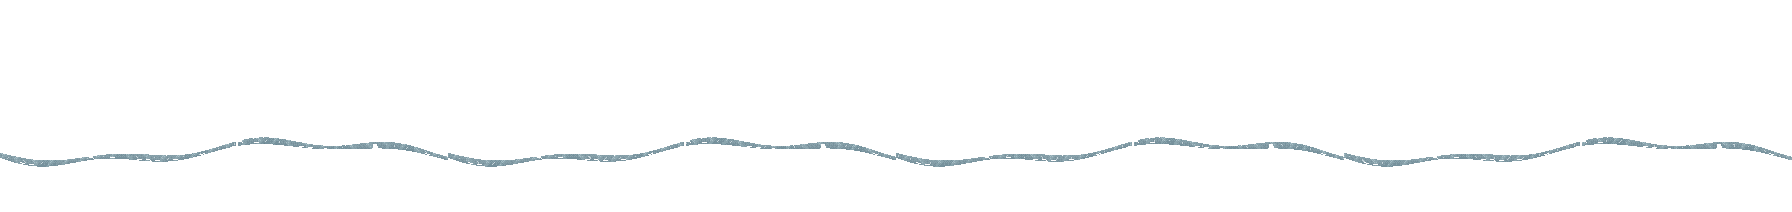
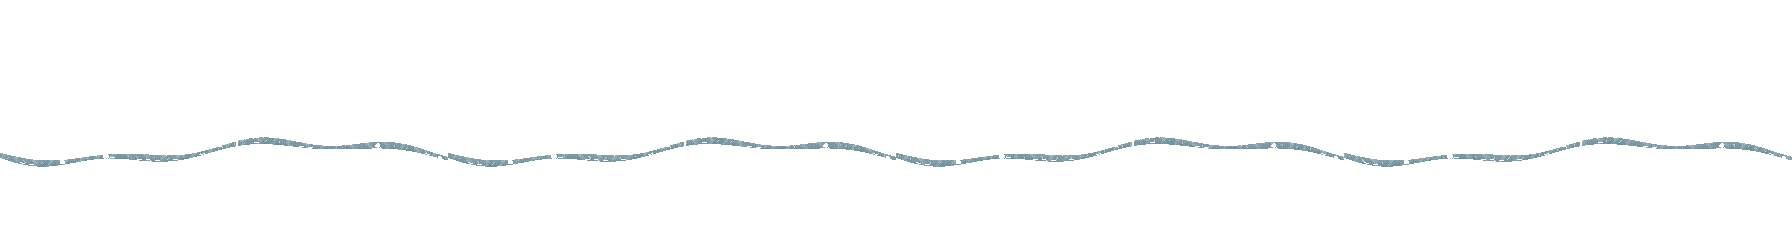
Åsen: rundt nes, hylle som smalnar av til éi flis, kamera berre ytst
Graset over overhenget heng i ein rund boge, og berget under er lågt og
rundt. Hylla held fram under høgre del og smalnar av til éi gangbar flis
ytst (16,19), med opne sidekantar mot dalen (Pikslar.sidekant). Kameraet
glir ned berre på utløysarrutene på neset og ytst på hylla (kameraNed.ruter).

Changed region(s): [[0.0, 0.6509, 1.0, 0.7925], [0.0, 0.566, 1.0, 0.6792]]

diff --git a/js/rpg/pikslar.js b/js/rpg/pikslar.js
@@ -1066,6 +1066,29 @@ window.Pikslar = (function () {
     c.ope = ope;
     return c;
   }
+  /* Bakke med luft ved sida (spissen av hylla som stikk ut over dalen): kanten mot lufta er ujamn,
+     det nedste hjørnet er rundt, og langs kanten syner ei smal stripe jord under graset. Utanfor er
+     flisa open (.ope), og dalen syner. base er flisa slik ho elles ville vore. */
+  function sidekant(base, felt, tx, ty) {
+    const c = lerret(S), g = c.getContext("2d"); g.drawImage(base, 0, 0);
+    const bilde = g.getImageData(0, 0, S, S), p = new Uint32Array(bilde.data.buffer), ope = new Uint8Array(S * S);
+    const GR = R_.gras.map(pk), lag = pk(JORDKANT.lag), mork = pk(JORDKANT.mork);
+    const vL = tx > 0 && felt.c(tx - 1, ty) === "-", hL = tx < felt.w - 1 && felt.c(tx + 1, ty) === "-";
+    for (let y = 0; y < S; y++) for (let x = 0; x < S; x++) {
+      const i = y * S + x;
+      for (const [luft, d] of [[vL, x], [hL, S - 1 - x]]) {
+        if (!luft) continue;
+        let kutt = 1 + Math.floor(vstoy(ty * S + y, tx * 3 + (d === x ? 0 : 1), 555) * 3);   // ujamn kant, 1 til 3 pikslar
+        if (y > 6) kutt = Math.max(kutt, Math.round(9 - Math.sqrt(Math.max(0, 81 - (y - 6) * (y - 6)))));   // rundt nedste hjørne
+        if (d < kutt) { p[i] = 0; ope[i] = 1; }
+        else if (d === kutt) p[i] = mork;
+        else if (d === kutt + 1) p[i] = hash(tx * S + x, ty * S + y, 556) > 0.5 ? lag : GR[0];
+      }
+    }
+    g.putImageData(bilde, 0, 0);
+    c.ope = ope;
+    return c;
+  }
   // Øvste rada i stupet som ruta (tx, ty) ligg i, eller null om ruta ikkje er stup («M» eller
   // overheng «U»). Byrjar stupet med eit overheng, ligg toppen rada over (bakken som stikk ut): då
   // held berget bak fram i same høgd som berget ved sida.
@@ -1134,7 +1157,8 @@ window.Pikslar = (function () {
     for (let x = 0; x < S; x++) {
       const X = tx * S + x;
       const r = Math.min(1, Math.abs(X + 0.5 - midt) / halv);             // 0 i spissen, 1 ved endane
-      const tunge = Math.round(2 + Math.pow(1 - r, 1.6) * 10 + (vstoy(X / 4, t0, 548) - 0.5) * 2);
+      // Graset heng over kanten i ein rund boge (buktar seg ut), lengst midt på.
+      const tunge = Math.round(2 + Math.sqrt(Math.max(0, 1 - r * r)) * 7 + (vstoy(X / 4, t0, 548) - 0.5) * 2);
       let lepp = 2 + Math.floor(vstoy(X / 9, t0 * 5, 521) * 4.99) + Math.floor(vstoy(X / 3, t0 * 5 + 2, 535) * 2.5);
       if (bakkeV) lepp = Math.max(lepp, boge(x + 0.5, 10, 14));
       if (bakkeH) lepp = Math.max(lepp, boge(S - x - 0.5, 10, 14));
@@ -1148,7 +1172,8 @@ window.Pikslar = (function () {
       const botn = nedst && felt.stupFast ? H - (2 + Math.floor(vstoy(X / 6, t0 * 5 + 3, 541) * 5) + Math.floor(hash(X >> 1, t0, 542) * 3)) : H + 99;
       // Overhenget: tynn kant av torv og berg, ujamn underside.
       const kant = virt ? tunge + 4 : 4 + Math.floor(vstoy(X / 5, t0 * 7, 543) * 4) + (hash(X, t0, 544) > 0.8 ? 1 : 0);
-      const veggBotn = virt ? Math.min(botn, S + kant + Math.round(Math.pow(r, 1.4) * (H - S - kant)) + Math.round((vstoy(X / 5, t0, 549) - 0.5) * 4)) : H + 99;
+      // Berget under er lite: det veks berre mot endane, og i ein rund boge (ikkje store blokker).
+      const veggBotn = virt ? Math.min(botn, S + kant + Math.round(Math.pow(r, 2.2) * (H - S - kant) * 0.7) + Math.round((vstoy(X / 5, t0, 549) - 0.5) * 4)) : H + 99;
       const bakV = kantV ? boge(x + 0.5, 8, 18) : 0, bakH = kantH ? boge(S - x - 0.5, 8, 18) : 0;
       for (let y = 0; y < S; y++) {
         const i = y * S + x, Yr = idx * S + y;
@@ -1753,6 +1778,6 @@ window.Pikslar = (function () {
     return c;
   }
 
-  return { S, FW, FH, flis, topp, kant, skigard, SKIGARD_LOFT, stiHjorne, sti, skrent, underSkrent, rampe, stup, nordkant, klasse, bygg, natur, haugBilete, KANTTYPE, kantflis, kantfigurar, vatn, steingard, FAST, figur, fiende, vesenGang, lerret, ramp, blend, RAMP,
+  return { S, FW, FH, flis, topp, kant, skigard, SKIGARD_LOFT, stiHjorne, sti, skrent, underSkrent, rampe, stup, nordkant, sidekant, klasse, bygg, natur, haugBilete, KANTTYPE, kantflis, kantfigurar, vatn, steingard, FAST, figur, fiende, vesenGang, lerret, ramp, blend, RAMP,
     hent, klar, forhandslast, alleBilete, ILD, SETE, ild, ildMaske, STANDARDKJENSLER, ARKPOSAR, ROYK, royk };
 })();

diff --git a/js/rpg/motor.js b/js/rpg/motor.js
@@ -547,7 +547,9 @@ window.Motor = (function () {
       oppPx += Math.sign(maalO - oppPx) * Math.min(Math.abs(maalO - oppPx), ko.fart * Math.min(n, 8));
     } else oppPx = 0;
     if (!k) { nedPx = 0; return; }
-    const ved = k.kant ? ("MU".includes((kart.fliser[Math.round(malY) + 1] || [])[Math.round(malX)] || "x") && Math.abs(malY - Math.round(malY)) < 0.01) : malY >= k.fra - 0.001;
+    // ruter: ["x,y", …] er utløysarrutene (neset og spissen av hylla på Åsen): berre der glir kameraet ned.
+    const ved = k.ruter ? k.ruter.includes(Math.round(malX) + "," + Math.round(malY)) && Math.abs(malY - Math.round(malY)) < 0.01 && Math.abs(malX - Math.round(malX)) < 0.01
+      : k.kant ? ("MU".includes((kart.fliser[Math.round(malY) + 1] || [])[Math.round(malX)] || "x") && Math.abs(malY - Math.round(malY)) < 0.01) : malY >= k.fra - 0.001;
     const maal = ved ? Math.round(k.rader * S) : 0, fart = Math.max(1, k.fart || 1);
     nedPx += Math.sign(maal - nedPx) * Math.min(Math.abs(maal - nedPx), fart * Math.min(n, 8));
   }
@@ -716,6 +718,8 @@ window.Motor = (function () {
   // Ei kantflis: «N», eller rad 0 på eit kart med kameraOpp. Bakken (gras, eller sti med graset under)
   // med kanten der bakken fell bort oppå (Pikslar.nordkant). Éin gong per flis (ikkje animerte).
   const erKant = (c, y) => c === "N" || (y === 0 && !!kart.def.kameraOpp && c !== LUFT);
+  // Bakke ein kan gå på, med luft ved sida (spissen av hylla over dalen): Pikslar.sidekant.
+  const erSidekant = (c, x, y) => y > 0 && c !== LUFT && !Pikslar.FAST.has(c) && !!Pikslar.klasse(c) && ((kart.fliser[y][x - 1]) === LUFT || kart.fliser[y][x + 1] === LUFT);
   function nordkant(x, y, fk) {
     const k = kart.nordkantar || (kart.nordkantar = new Map()), nk = x + "," + y;
     if (k.has(nk)) return k.get(nk);
@@ -725,7 +729,7 @@ window.Motor = (function () {
       bg.drawImage(Pikslar.flis(".", 0, x, y, kart.def.golv), 0, 0);
       const sl = Pikslar.sti(stifelt(), x, y); if (sl) bg.drawImage(sl, 0, 0);
     } else bg.drawImage(Pikslar.flis(c === "N" ? "." : fk, 0, x, y, kart.def.golv), 0, 0);
-    const kf = Pikslar.nordkant(base, terrengfelt(), x, y);
+    const kf = erKant(c, y) ? Pikslar.nordkant(base, terrengfelt(), x, y) : Pikslar.sidekant(base, terrengfelt(), x, y);
     k.set(nk, kf);
     return kf;
   }
@@ -1246,7 +1250,7 @@ window.Motor = (function () {
       const topp = "XcG".includes(c) && (under === null || "XcGE".includes(under));
       let fk = topp ? c + "t" : c;
       if (c === "R") { const over = y > 0 && kart.fliser[y - 1][x] === "R"; fk = !over && under !== "R" ? "Rtb" : !over ? "Rt" : under !== "R" ? "Rb" : "R"; }
-      if (erKant(c, y)) {
+      if (erKant(c, y) || erSidekant(c, x, y)) {
         // Kanten øvst: bakken fell bort, og utsikta syner over graskanten (Pikslar.nordkant).
         const kf = nordkant(x, y, fk); g.drawImage(kf, sx, sy); luftRute(sx, sy, kf.ope);
       } else if (erVatn(x, y)) {

diff --git a/js/rpg/data.js b/js/rpg/data.js
@@ -420,7 +420,8 @@ window.RPGData = (function () {
       // "b" rygg, "c" fri; sjå Pikslar.stup og forhand/skjerm/r39-skrakant-samanlikning.png).
       skra: "b",
       kameraOpp: { fra: 4, rader: 6, fart: 1 },                         // øvst glir kameraet roleg seks rader opp over kanten
-      kameraNed: { kant: true, rader: 4, fart: 1 },                    // på flisa rett over stupet glir kameraet roleg ned, så Ivar står øvst
+      // Utløysarrutene: på neset og ytst på hylla glir kameraet roleg ned, så Ivar står øvst.
+      kameraNed: { ruter: ["21,14", "22,14", "23,14", "15,18", "16,19", "17,18"], rader: 4, fart: 1 },
       // Forgrunnen: bjørkegreiner i øvre hjørne ved skogen, høgt gras i nedre hjørne ved stupet.
       forgrunn: [
         { bilete: "greiner", faktor: 1.3, ved: [0, -6], x: -6, y: -4 },
@@ -430,7 +431,8 @@ window.RPGData = (function () {
       ],
       /* Nedst er kanten ujamn: platået stikk ut i eit nes (x 21 til 23) og går inn i ei vik (x 25 til 27),
          og under midten (x 4 til 17) går ein skrent med rampe (11,14) ned til ei hylle eitt nivå lenger
-         nede (rad 15 og 16) før det stuper. Under neset og hylla er det overheng («U»): ei tynn kant
+         nede (rad 15 og 16) før det stuper. Høgre side av hylla stikk djupare ned og smalnar av til éi
+         flis ytst (16,19), med luft på sidene. Under neset og hylla er det overheng («U»): ei tynn kant
          med skugge under og berget trekt inn bak. Stupet frå platået er tre rader høgt, og lufta under har lia og dalen.
          Åsen: toppen er lengst oppe på midten (to kollar med skrent «s» under seg, rad 0 og 1), og
          kanten der bakken fell bort («N») går eit steg ned mot sidene, der det er luft («-») i rad 0.
@@ -455,9 +457,11 @@ window.RPGData = (function () {
         "MMMMsssssss/ssssssMMM.\".MMMM",
         "MMMM....\"...o.....MMMUUUMMMM",
         "MMMMt....\"......t.MMMMMMM---",
-        "----UUUUUUUUUUUUUU----------",
-        "----MMMMMMMMMMMMMM----------",
-        "----------------------------",
+        "----UUUUUUUUU.....----------",
+        "----MMMMMMMMMUU.\".----------",
+        "-------------MMU.U----------",
+        "---------------MUM----------",
+        "----------------M-----------",
         "----------------------------",
         "----------------------------",
         "----------------------------",

diff --git a/tools/sjekk-spel.js b/tools/sjekk-spel.js
@@ -94,7 +94,8 @@ for (const [id, k] of Object.entries(D.KART)) if (k.stemning && !(D.STEMNINGAR |
         for (const dy of [-1, 1]) { const n = c(x, y + dy); if (n && /[sM\-#tiFRWv|]/.test(n)) feil.push(`${id}: rampa på ${x},${y} har «${n}» ${dy < 0 ? "over" : "under"} seg`); }
       }
     }
-    if (k.kameraNed && !((Number.isFinite(k.kameraNed.fra) || k.kameraNed.kant === true) && k.kameraNed.rader > 0 && (k.kameraNed.fart == null || Number.isInteger(k.kameraNed.fart)))) feil.push(`${id}: kameraNed treng fra, rader over 0 og fart i heile pikslar per tikk`);
+    if (k.kameraNed && k.kameraNed.ruter) for (const r of k.kameraNed.ruter) { const [x, y] = String(r).split(",").map(Number); if (!c(x, y) || /[MU\-s#]/.test(c(x, y))) feil.push(`${id}: kameraNed-ruta ${r} er ikkje bakke ein kan stå på`); }
+    if (k.kameraNed && !((Number.isFinite(k.kameraNed.fra) || k.kameraNed.kant === true || Array.isArray(k.kameraNed.ruter)) && k.kameraNed.rader > 0 && (k.kameraNed.fart == null || Number.isInteger(k.kameraNed.fart)))) feil.push(`${id}: kameraNed treng fra, rader over 0 og fart i heile pikslar per tikk`);
     if (k.kameraOpp && !(Number.isFinite(k.kameraOpp.fra) && (k.kameraOpp.fart ? k.kameraOpp.rader > 0 : Number.isFinite(k.kameraOpp.til) && k.kameraOpp.fra > k.kameraOpp.til && k.kameraOpp.til >= 0))) feil.push(`${id}: kameraOpp treng fra > til >= 0, eller fra, rader og fart`);
     // Utsikta øvst: det første opp-laget dekkjer skjermen frå toppen, og det siste når ned under
     // graskanten i rad 0, for alle kameraposisjonar der lufta over kartet syner.

diff --git a/tools/pikselkunst/utsikt.py b/tools/pikselkunst/utsikt.py
@@ -175,7 +175,7 @@ def fjell():
 
 
 # ---------------------------------------------------------------- lia og dalen under stupet, sett ovanfrå
-LI_W, LI_H = 448, 212                # like breitt som kartet: laget står fast (faktor 1); kartrad 15 til 27
+LI_W, LI_H = 448, 244                # like breitt som kartet: laget står fast (faktor 1); kartrad 15 til 29
 BERG = ["#1c1a2c", "#2e2a3a", "#48434a", "#645e5e", "#827a74", "#a0978a", "#bdb4a4"]   # som BERG i pikslar.js
 
 
@@ -314,7 +314,7 @@ def ovanfra(W, H, s=0):
 
 # Kvar lufta byrjar under stupet, per flis-kolonne (kartrad), så skuggen under overhenget kjem rett.
 # Må stemme med rader i kartet asen i js/rpg/data.js: platået (17), hylla (20), neset (18), vika (16).
-LUFTRAD = [17] * 4 + [19] * 14 + [17] * 3 + [17] * 3 + [17] + [16] * 3   # hylla og neset har overheng (rad 17 og 15)
+LUFTRAD = [17] * 4 + [19] * 9 + [20] * 2 + [21, 22, 21] + [17] * 3 + [17] * 3 + [17] + [16] * 3   # hylla smalnar av til spissen (16,19)
 LI_TOPP = 15                          # biletet byrjar ved kartrad 15
 
 

diff --git a/js/rpg/README.md b/js/rpg/README.md
@@ -141,7 +141,7 @@ Lyset etterliknar Super Nintendo og Final Fantasy VI. Det meste av lyset er teik
 - **Fast lag og variantar:** eit lag med faktor 1 står fast i terrenget (lia under stupet på Åsen). Eit lag med `variant: "namn"` blir berre teikna når kartet har `variant: "namn"` (standard «fast»). Åsen har `variant: "fast"` (lia som fast lag); `variant: "dal"` gir ei kortare li (`li-kort`) og dalbotnen med Hovdebygda (`dal-under`, faktor `[1, 1.8]`), som stig fram nedanfrå raskare enn kartet når kameraet glir ned. Sjå den med `skjermbilete.py namn kart=asen m=1 x=12 y=13 variant=dal`.
 - **Animerte lag:** `rammer: n` (rammene side om side i biletet), `rekkje` og `takt` (tikk per steg), og `drift: n` (laget glir éin piksel mot høgre per n tikk og går rundt). Graset i forgrunnen på Åsen vaiar i vinden (`[0, 1, 2, 1]`, 40 tikk per steg).
 - **Forgrunn** (`forgrunn` på kartet): same format, med faktor over 1, teikna etter alt anna (før lyset). Bjørkegreiner i øvre hjørne når kameraet står øvst, høgt gras i nedre hjørne når det står nedst ved stupet. Dei går fort ut av biletet når kameraet flyttar seg.
-- **Utsikt for kameraet** (`kameraNed: { fra, rader, fart }` eller `{ kant: true, rader, fart }`): først når målet står på rad `fra` eller lenger nede, eller (`kant`) på ei flis med stup (`M`) rett under seg, glir kameraet `rader` rader ned for seg sjølv i tikk-takt, `fart` pikslar per tikk (standard 1), og attende når målet går opp att (`nedPx` i `motor.js`). `kameraOpp: { fra, rader, fart }` glir roleg opp over kanten øvst når målet er på rad `fra` eller høgare (Åsen: rad 4, seks rader, 1 piksel per tikk), så laga i utsikta stig fram over horisonten etter kvart; utan `fart` (`{ fra, til, rader }`) ser kameraet jamt lenger opp når målet går opp mot kanten: over rad `fra` ser kameraet opp til `rader` rader over kartet, der det er luft. Kanten der bakken fell bort er rad 0 og alle `N`-fliser (som har luft over seg); `Pikslar.nordkant` bøyer kanten ned mot sida der det er luft. Laga for utsikta øvst har `opp: true`.
+- **Utsikt for kameraet** (`kameraNed: { fra, rader, fart }`, `{ kant: true, rader, fart }` eller `{ ruter: ["x,y", …], rader, fart }`): først når målet står på rad `fra` eller lenger nede, på ei flis med stup rett under seg (`kant`), eller på ei av utløysarrutene (`ruter`; Åsen: neset og ytst på hylla), glir kameraet `rader` rader ned for seg sjølv i tikk-takt, `fart` pikslar per tikk (standard 1), og attende når målet går opp att (`nedPx` i `motor.js`). `kameraOpp: { fra, rader, fart }` glir roleg opp over kanten øvst når målet er på rad `fra` eller høgare (Åsen: rad 4, seks rader, 1 piksel per tikk), så laga i utsikta stig fram over horisonten etter kvart; utan `fart` (`{ fra, til, rader }`) ser kameraet jamt lenger opp når målet går opp mot kanten: over rad `fra` ser kameraet opp til `rader` rader over kartet, der det er luft. Kanten der bakken fell bort er rad 0 og alle `N`-fliser (som har luft over seg); `Pikslar.nordkant` bøyer kanten ned mot sida der det er luft. Laga for utsikta øvst har `opp: true`.
 - På Åsen: toppen er lengst oppe på midten, og kanten fell eit steg ned mot sidene. Øvst ser ein ut som i Narshe, i fire lag med kvar sin fart: himmelen (`himmel`, faktor 0,04), fjella (`fjell`, 0,1), lia opp mot utmarka med setra til venstre og Hovdebygda med kyrkja til høgre (`dal-nord`, 0,3), og nærast trekronene i lia under kanten (`naer`, 0,6), som glir fort og søkk bak kanten når kameraet går ned. Kameraet kan sjå seks rader over kartet. Nedst er kanten ujamn: platået stikk ut i eit nes og går inn i ei vik, og under midten går ein skrent med rampe (11,14) ned til ei hylle eitt nivå lenger nede (rad 15 og 16) før det stuper. Stupet er tre rader høgt. Kameraet glir roleg 4 rader ned (1 piksel per tikk) når Ivar står på ei flis rett over stupet (på platået, neset, i vika eller på hylla), så han står øvst på skjermen, og under stupet ser ein først ned langs dalsida (bergveggar, hyller og skog skrått framanfrå) som glir over i dalen rett ovanfrå som eit kart frå lufta, eit fast lag som følgjer kartet (`li`, faktor 1): ur og skog som trekroner sett ovanfrå, og dalbotnen med teigar, steingardar, elva, vegen, gardane som tak og kyrkja med tårnet, og skyer som driv sakte bortover under oss (`skyer`, `drift: 12`), og elva renn (`elv`, fire rammer). Kartet har åtte rader luft nedst. Minnet om far (`minne-far`) har same lia under stupet.
 
 ### Posar

diff --git a/tools/pikselkunst/ARBEIDSLOGG.md b/tools/pikselkunst/ARBEIDSLOGG.md
@@ -1323,3 +1323,27 @@ same måte, uansett kven som tek over.
   berget i lufta med ein hard kant.
 - **Står att:** Hylla er så brei at spissen blir ein slak boge; ein smalare hylle i kartet ville gi ein
   spissare form.
+
+## Runde 41: rundt nes, ei hylle som smalnar av til éi flis, og kamera berre ytst
+
+- **Oppdrag:** Brukaren: neset skal bli meir buet att, hylla skal utvidast så høgre side stikk djupare
+  ned til éi gangbar flis ytst, og kameraet skal berre gli ned på neset og ytst på hylla.
+- **Gjort:**
+  - `Pikslar.stup`: graset over overhenget heng i ein rund boge (lengst midt på, buktar seg ut), og
+    berget under veks berre mot endane, lågt og rundt, så neset ikkje lenger har ein V og store, mørke
+    blokker på sidene. Skråkanten er framleis variant b (lys rygg over i ura).
+  - Kartet (rad 17 til 21): hylla held fram under høgre del og smalnar av, fem flisar på rad 17
+    (x 13 til 17), tre på rad 18 (x 15 til 17) og éi ytst på (16,19). Under kvar ytste rute er det
+    overheng («U») og éi rad berg, så luft. Kartet er 30 rader høgt (luft nedst lagd til); ingen merke,
+    dører, folk, scener eller testruter er flytte, og nyeRader gjeld ikkje (radene er lagde til nedst).
+  - `Pikslar.sidekant`: bakke med luft ved sida (dei ytste flisene på hylla) får ein ujamn kant, rundt
+    nedste hjørne og ei smal stripe jord, og er open utanfor, så dalen syner.
+  - `kameraNed.ruter`: ei liste med utløysarruter på kartet (neset 21,14 til 23,14, og 15,18, 16,19 og
+    17,18 ytst på hylla). Berre der glir kameraet ned; langs resten av kanten står det stille.
+    `sjekk-spel.js` sjekkar at utløysarrutene er bakke.
+  - `utsikt.py`: `LUFTRAD` følgjer dei nye radene, og `li` er 244 pikslar høgt.
+- **Vurdert:** `forhand/skjerm/r41-oversyn.png` (neset og spissen, med kameraet oppe og nede) og
+  `r41-naer.png` (nærbilete av neset og spissen). Spissen heng som ei grastunge ut over dalen, med luft
+  på sidene og under, og neset har ein rund kant.
+- **Står att:** Hylla smalnar av i trinn (fem, tre, éi flis); sidekantane rundar trinna, men omrisset er
+  framleis litt trappeforma.
